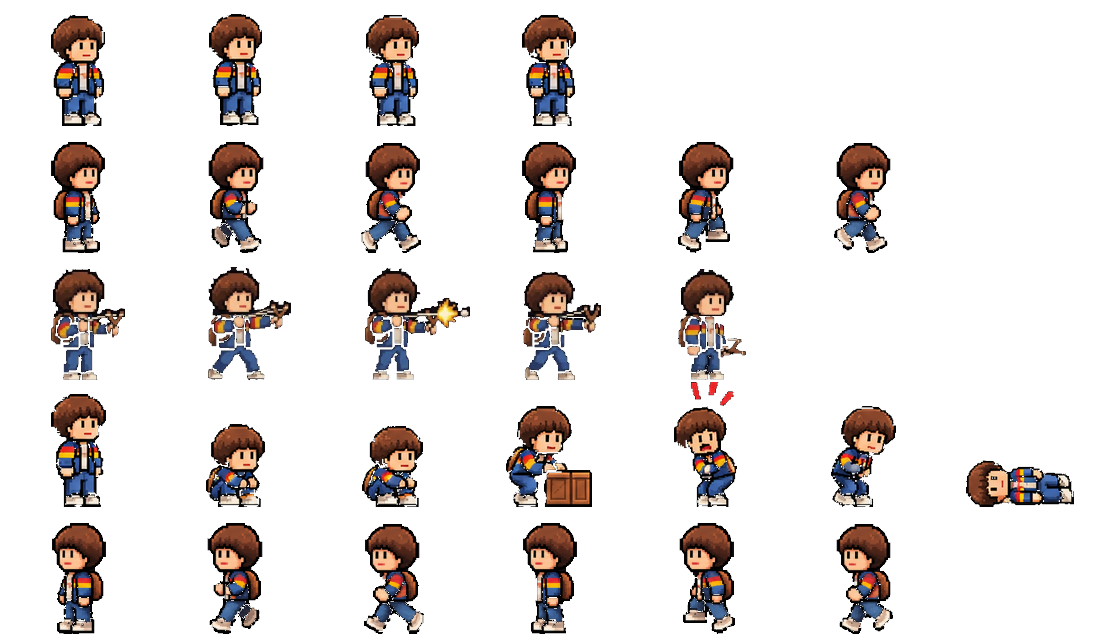
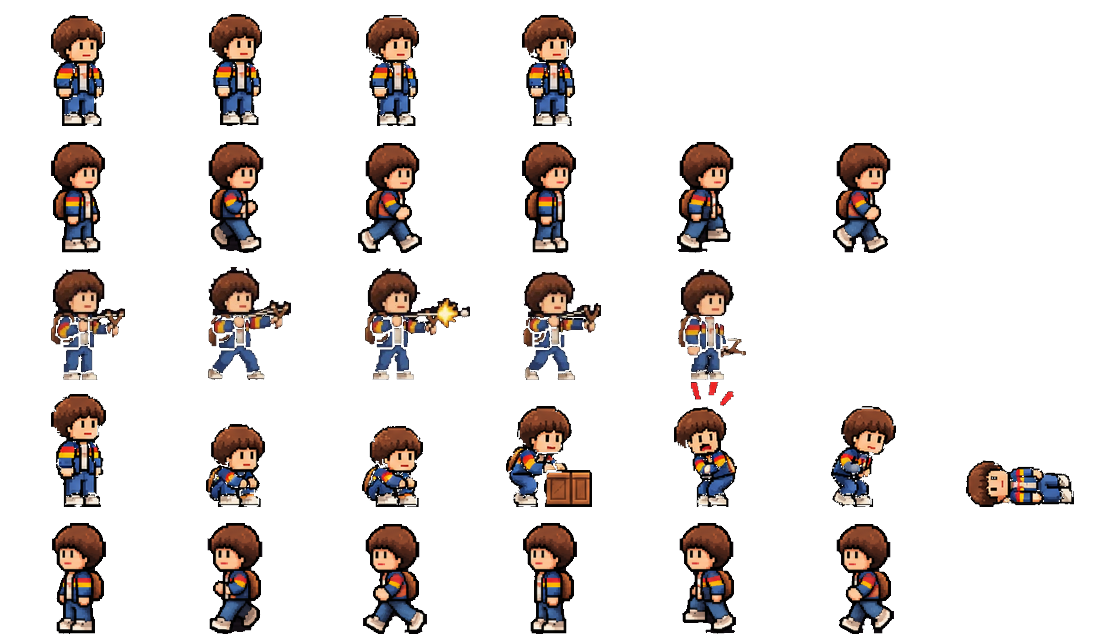
Andar sin transparencias en cuello y cintura (silueta cerrada completa)

diff --git a/js/atlas.js b/js/atlas.js
@@ -171,8 +171,8 @@ window.ATLAS = {
      111,
      110,
      111,
-     112,
-     112
+     110,
+     110
     ]
    },
    "power": {
@@ -203,8 +203,8 @@ window.ATLAS = {
      111,
      110,
      111,
-     112,
-     112
+     110,
+     110
     ]
    }
   }
@@ -232,7 +232,7 @@ window.ATLAS = {
      112,
      112,
      112,
-     111,
+     110,
      112
     ]
    },
@@ -261,11 +261,11 @@ window.ATLAS = {
     "n": 6,
     "h": [
      111,
-     111,
+     110,
      109,
      111,
-     110,
-     110
+     103,
+     109
     ]
    },
    "lift": {
@@ -325,10 +325,10 @@ window.ATLAS = {
     "n": 6,
     "h": [
      113,
-     112,
-     112,
+     114,
      113,
-     111,
+     113,
+     112,
      113
     ]
    },
@@ -356,12 +356,12 @@ window.ATLAS = {
     "row": 4,
     "n": 6,
     "h": [
-     113,
-     113,
-     113,
-     113,
-     112,
-     113
+     114,
+     114,
+     114,
+     114,
+     114,
+     114
     ]
    },
    "shoot": {
@@ -420,11 +420,11 @@ window.ATLAS = {
     "row": 1,
     "n": 6,
     "h": [
-     121,
-     123,
-     124,
-     121,
      122,
+     122,
+     122,
+     120,
+     121,
      121
     ]
    },
@@ -432,11 +432,11 @@ window.ATLAS = {
     "row": 2,
     "n": 6,
     "h": [
-     121,
-     123,
-     124,
-     121,
      122,
+     122,
+     122,
+     120,
+     121,
      121
     ]
    },
@@ -476,10 +476,10 @@ window.ATLAS = {
     "n": 6,
     "h": [
      123,
+     122,
      123,
-     125,
-     124,
      123,
+     122,
      123
     ]
    },
@@ -488,10 +488,10 @@ window.ATLAS = {
     "n": 6,
     "h": [
      123,
+     122,
      123,
-     125,
-     124,
      123,
+     122,
      123
     ]
    }
@@ -542,10 +542,10 @@ window.ATLAS = {
     "h": [
      111,
      111,
-     110,
      111,
-     110,
-     110
+     111,
+     111,
+     111
     ]
    },
    "walkL": {
@@ -553,11 +553,11 @@ window.ATLAS = {
     "n": 6,
     "h": [
      110,
-     112,
+     111,
+     111,
+     111,
      110,
-     112,
-     110,
-     109
+     110
     ]
    }
   }

diff --git a/sw.js b/sw.js
@@ -1,6 +1,6 @@
 /* Service worker: deja el juego instalable y jugable sin conexión.
  * Estrategia "stale-while-revalidate": sirve de la caché y actualiza en segundo plano. */
-const CACHE = 'stranger-slug-v27';
+const CACHE = 'stranger-slug-v28';
 const ASSETS = [
   './', 'index.html', 'manifest.webmanifest',
   'js/atlas.js', 'js/game.js', 'js/touch.js',

diff --git a/tools/build_assets.py b/tools/build_assets.py
@@ -369,7 +369,7 @@ atlas['will'] = build_char('will', 'will.png', (21, 16, 24), {
     'walk':  ((635, 538, 1450, 690), 6, 'c'),
     'shoot': ((40, 768, 712, 925), 5, ('l', 52)),
     'other': ((735, 764, 1520, 925), 7, 'c'),
-}, idle_h=111, override={'walk': dict(sheet='will1.png', bg=(21, 16, 23), box=(300, 75, 1900, 277), left=(300, 340, 1900, 551), n=8, scrub=False, pick=[0, 1, 2, 4, 5, 6], solid_top=0.45, fg_thr=8, mirror_left=True, same_head=True),
+}, idle_h=111, override={'walk': dict(sheet='will1.png', bg=(21, 16, 23), box=(300, 75, 1900, 277), left=(300, 340, 1900, 551), n=8, scrub=False, pick=[0, 1, 2, 4, 5, 6], solid_top=1.0, fg_thr=8, mirror_left=True, same_head=True),
     'shoot': dict(sheet='tirachinas.jpg', bg=(17, 14, 21), box=(30, 482, 1250, 760), n=5, scrub=False, solid_top=0.45, fg_thr=8, pick=list(range(5)), ref_idx=0, anchor='feet')}, blank=[(40, 490, 215, 540), (625, 490, 790, 540), (40, 712, 250, 764), (745, 712, 975, 764)])
 atlas['demogorgon'] = build_char('demogorgon', 'demogorgon.png', (19, 18, 25), {
     'idle':   ((45, 452, 595, 595), 4, 'c'),
@@ -386,14 +386,14 @@ atlas['eleven'] = build_char('eleven', E, DARK, {
     'walk':  ((1040, 305, 1510, 430), 4, 'c'),
     'power': ((1040, 460, 1510, 590), 4, 'c'),
     'other': ((1040, 640, 1510, 760), 4, 'c'),
-}, override={'walk': dict(sheet='eleven1.png', bg=(22, 15, 21), box=(300, 75, 1900, 277), left=(300, 340, 1900, 551), n=8, scrub=False, pick=[0, 1, 2, 4, 5, 6], solid_top=0.45, fg_thr=8, mirror_left=True)})
+}, override={'walk': dict(sheet='eleven1.png', bg=(22, 15, 21), box=(300, 75, 1900, 277), left=(300, 340, 1900, 551), n=8, scrub=False, pick=[0, 1, 2, 4, 5, 6], solid_top=1.0, fg_thr=8, mirror_left=True)})
 # --- Mike (WA0027)
 atlas['mike'] = build_char('mike', 'IMG-20261121-WA0027.jpg', DARK, {
     'idle':  ((1045, 160, 1510, 285), 4, 'c'),
     'walk':  ((1045, 305, 1510, 430), 4, 'c'),
     'talk':  ((1045, 460, 1510, 590), 4, 'c'),
     'other': ((1045, 640, 1510, 760), 4, 'c'),
-}, solid_top=0.45, fg_thr=7, liftwalk=2, hip=0.27, override={'walk': dict(sheet='mike1.png', bg=(22, 15, 21), box=(300, 75, 1900, 277), left=(300, 340, 1900, 551), n=8, scrub=False, thr=9, cut_thr=4, local_bg=True, solid_top=0.42, pick=[0, 1, 2, 4, 5, 6]),
+}, solid_top=0.45, fg_thr=7, liftwalk=2, hip=0.27, override={'walk': dict(sheet='mike1.png', bg=(22, 15, 21), box=(300, 75, 1900, 277), left=(300, 340, 1900, 551), n=8, scrub=False, thr=9, cut_thr=4, local_bg=True, solid_top=1.0, pick=[0, 1, 2, 4, 5, 6]),
     'lift': dict(sheet='objeto2.png', bg=(19, 12, 19), box=(40, 55, 1900, 262), n=12, scrub=False, thr=9, cut_thr=5, local_bg=True, solid_top=0.45, fg_thr=7, pick=[0, 4, 5, 6, 8, 9], ref_idx=0, keep_main=True, anchor='feet',
                  edit=erase_rects((700, 55, 760, 91), (850, 50, 915, 89), (1000, 35, 1075, 90), (1512, 85, 1680, 130))),
     'shoot': dict(sheet='objeto2.png', bg=(19, 12, 19), box=(40, 375, 1900, 558), n=12, scrub=False, thr=9, cut_thr=5, local_bg=True, solid_top=0.45, fg_thr=7, pick=[3, 5, 6, 7, 4], ref_idx=0, keep_main=True, anchor='feet')})
@@ -403,7 +403,7 @@ atlas['dustin'] = build_char('dustin', 'IMG-20261121-WA0028.jpg', DARK, {
     'walk':  ((1045, 305, 1510, 430), 4, 'c'),
     'talk':  ((1045, 460, 1510, 590), 4, 'c'),
     'other': ((1045, 640, 1510, 760), 4, 'c'),
-}, liftwalk=2, hip=0.27, override={'walk': dict(sheet='dustin1.png', bg=(17, 13, 16), box=(300, 75, 1900, 277), left=(300, 340, 1900, 551), n=8, scrub=False, pick=[0, 1, 2, 4, 5, 6], solid_top=0.45, fg_thr=8),
+}, liftwalk=2, hip=0.27, override={'walk': dict(sheet='dustin1.png', bg=(17, 13, 16), box=(300, 75, 1900, 277), left=(300, 340, 1900, 551), n=8, scrub=False, pick=[0, 1, 2, 4, 5, 6], solid_top=1.0, fg_thr=8),
     'shoot': dict(sheet='tirachinas.jpg', bg=(17, 14, 21), box=(30, 85, 1250, 335), n=5, scrub=False, solid_top=0.45, fg_thr=8, pick=list(range(5)), ref_idx=0, anchor='feet'),
     'lift': dict(sheet='objeto.png', bg=(25, 17, 29), boxes=[((60, 180, 1500, 492), 8), ((60, 565, 1500, 858), 8)], scrub=False, solid_top=0.45, fg_thr=8, post=dustin_lift_post, pick=list(range(6)), ref_idx=0, anchor='feet')})
 # --- Steve (WA0029)
@@ -415,14 +415,14 @@ atlas['steve'] = build_char('steve', S, DARK, {
     'attack': ((40, 810, 560, 955), 5, ('l', 40)),
     'hurt':   ((595, 825, 985, 955), 4, 'c'),
     'other':  ((1020, 815, 1440, 955), 4, 'c'),
-}, override={'walk': dict(sheet='steve1.png', bg=(17, 13, 18), box=(300, 75, 1900, 277), left=(300, 340, 1900, 551), n=8, scrub=False, pick=[0, 1, 2, 4, 5, 6], solid_top=0.45, fg_thr=8),
-              'run': dict(sheet='steve1.png', bg=(17, 13, 18), box=(300, 75, 1900, 277), left=(300, 340, 1900, 551), n=8, scrub=False, pick=[0, 1, 2, 4, 5, 6], solid_top=0.45, fg_thr=8)})
+}, override={'walk': dict(sheet='steve1.png', bg=(17, 13, 18), box=(300, 75, 1900, 277), left=(300, 340, 1900, 551), n=8, scrub=False, pick=[0, 1, 2, 4, 5, 6], solid_top=1.0, fg_thr=8),
+              'run': dict(sheet='steve1.png', bg=(17, 13, 18), box=(300, 75, 1900, 277), left=(300, 340, 1900, 551), n=8, scrub=False, pick=[0, 1, 2, 4, 5, 6], solid_top=1.0, fg_thr=8)})
 # --- Lucas (lucas1.png: andar; lucas2.png: reposo, tirachinas y otras acciones)
 atlas['lucas'] = build_char('lucas', 'lucas2.png', (22, 16, 24), {
     'idle':  ((60, 541, 530, 685), 4, 'torso'),
     'shoot': ((40, 770, 715, 920), 5, 'torso'),
     'other': ((755, 775, 1515, 920), 7, 'torso'),
-}, idle_h=111, solid_top=0.62, fg_thr=7, override={'walk': dict(sheet='lucas1.png', bg=(26, 22, 30), box=(320, 78, 1875, 292), left=(320, 345, 1875, 560), n=8, scrub=False, pick=[0, 1, 2, 4, 5, 6], solid_top=0.45, fg_thr=8)})
+}, idle_h=111, solid_top=0.62, fg_thr=7, override={'walk': dict(sheet='lucas1.png', bg=(26, 22, 30), box=(320, 78, 1875, 292), left=(320, 345, 1875, 560), n=8, scrub=False, pick=[0, 1, 2, 4, 5, 6], solid_top=1.0, fg_thr=8)})
 # --- Vecna (vicna.png): hoja nueva de 8 frames por animación, sin reescalado suave (nítido)
 def build_vecna(sheet='vicna.png', bg=(11, 8, 11), target_h=176):
     img = Image.open(os.path.join(SRC, sheet)).convert('RGB')
